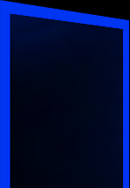
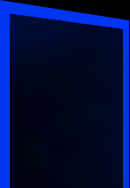
[IMP] Add a left door in level 1 that connects to the right blue door in level 4.

Changed region(s): [[0.0615, 0.0798, 0.0923, 1.0]]

diff --git a/codemaster/levels/level_1.py b/codemaster/levels/level_1.py
@@ -16,6 +16,7 @@ from codemaster.models.actors.npcs import (
     )
 from codemaster.models.actors.items import (
     BatteryA,
+    DoorLeftBlue,
     DoorRightYellow,
     MineCyan,
     )
@@ -36,15 +37,17 @@ class Level1(Level):
         self.background = pg.image.load(self.file_name_im_get(1)).convert()
         self.level_limit = -1800
         self.level_limit_top = -1000
-        self.player_start_pos_left = (80, 480)
+        self.player_start_pos_left = (220, 480)
         self.player_start_pos_right = (600, 480)
         self.player_start_pos_rtop = (300, 100)
         self.player_start_pos_ltop = (80, 100)
         self.player_start_pos_bottom = (300, 800)
-        self.world_start_pos_left = (0, -758)
+        self.world_start_pos_left = (0, -658)
         self.world_start_pos_right = (self.level_limit + self.SCROLL_LV_NEAR_RIGHT_SIDE, -758)
         self.world_start_pos_rtop = (self.level_limit + 500 + self.SCROLL_LV_NEAR_RIGHT_SIDE, -900)
         self.world_start_pos_ltop = (0, -900)
+        self.door_previous_pos_player = self.player_start_pos_left
+        self.door_previous_pos_world = self.world_start_pos_left
 
         self._add_actors()
         self._sprites_all_add()
@@ -102,5 +105,6 @@ class Level1(Level):
 
         # Add doors
         self.doors.add([
+            DoorLeftBlue(2, 550, self.game, level_dest=3, door_dest_pos=DOOR_DEST_NL),
             DoorRightYellow(2570, 550, self.game, level_dest=1, door_dest_pos=DOOR_DEST_NL),
             ])
